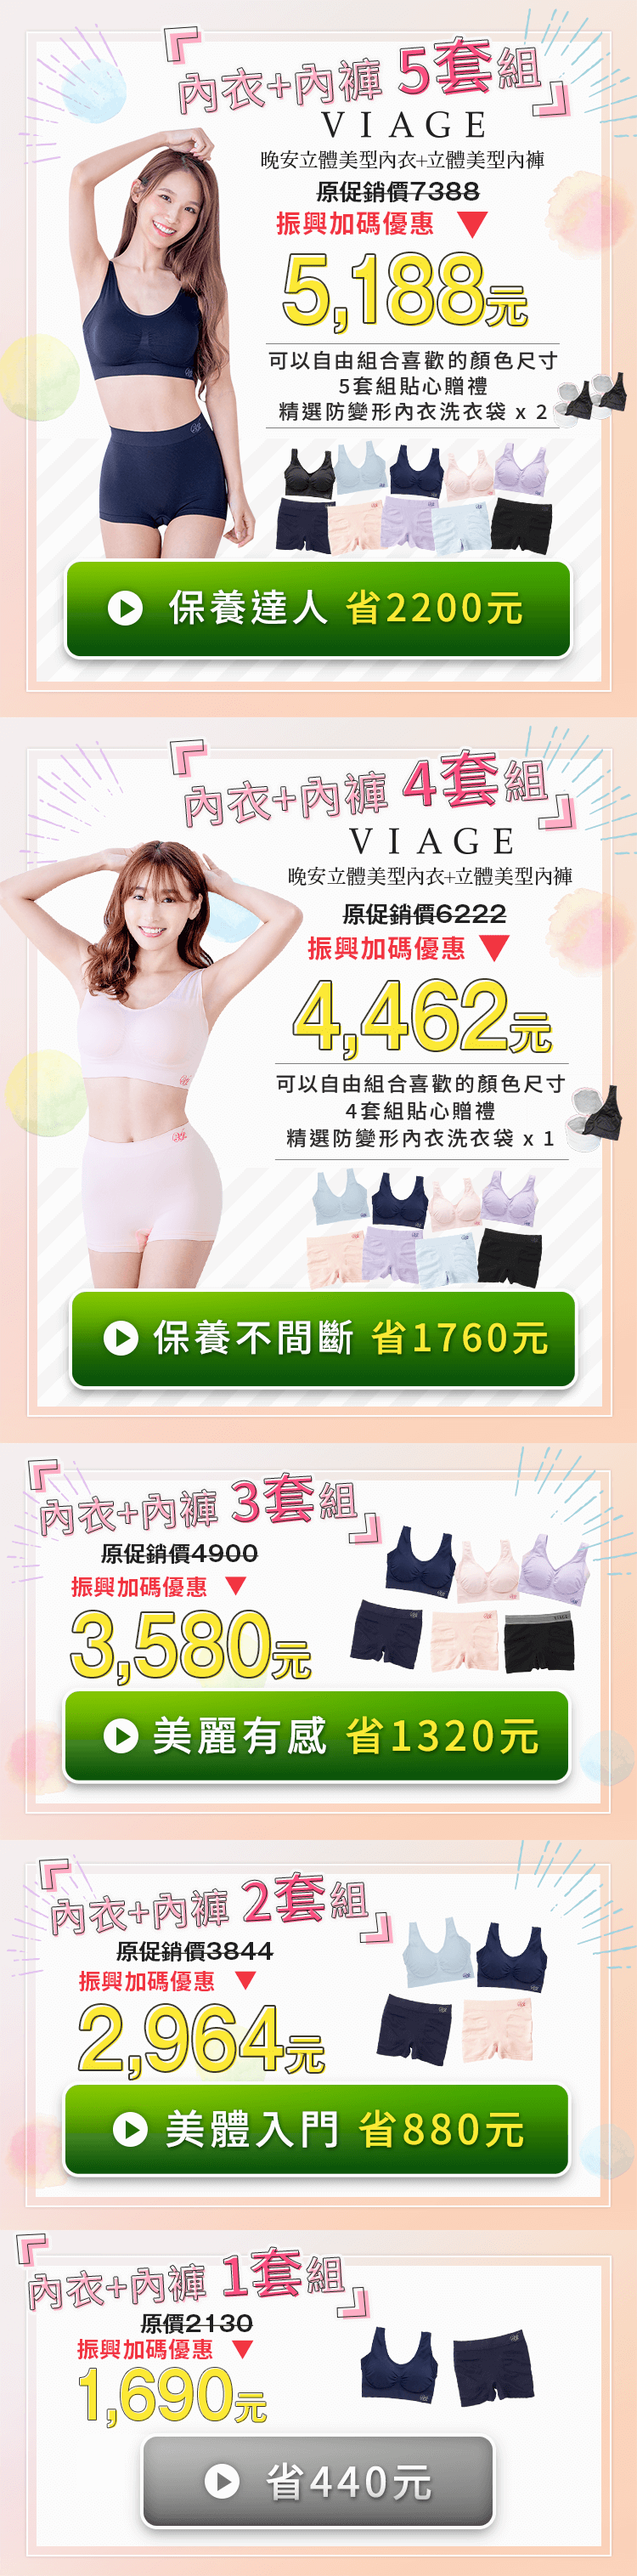
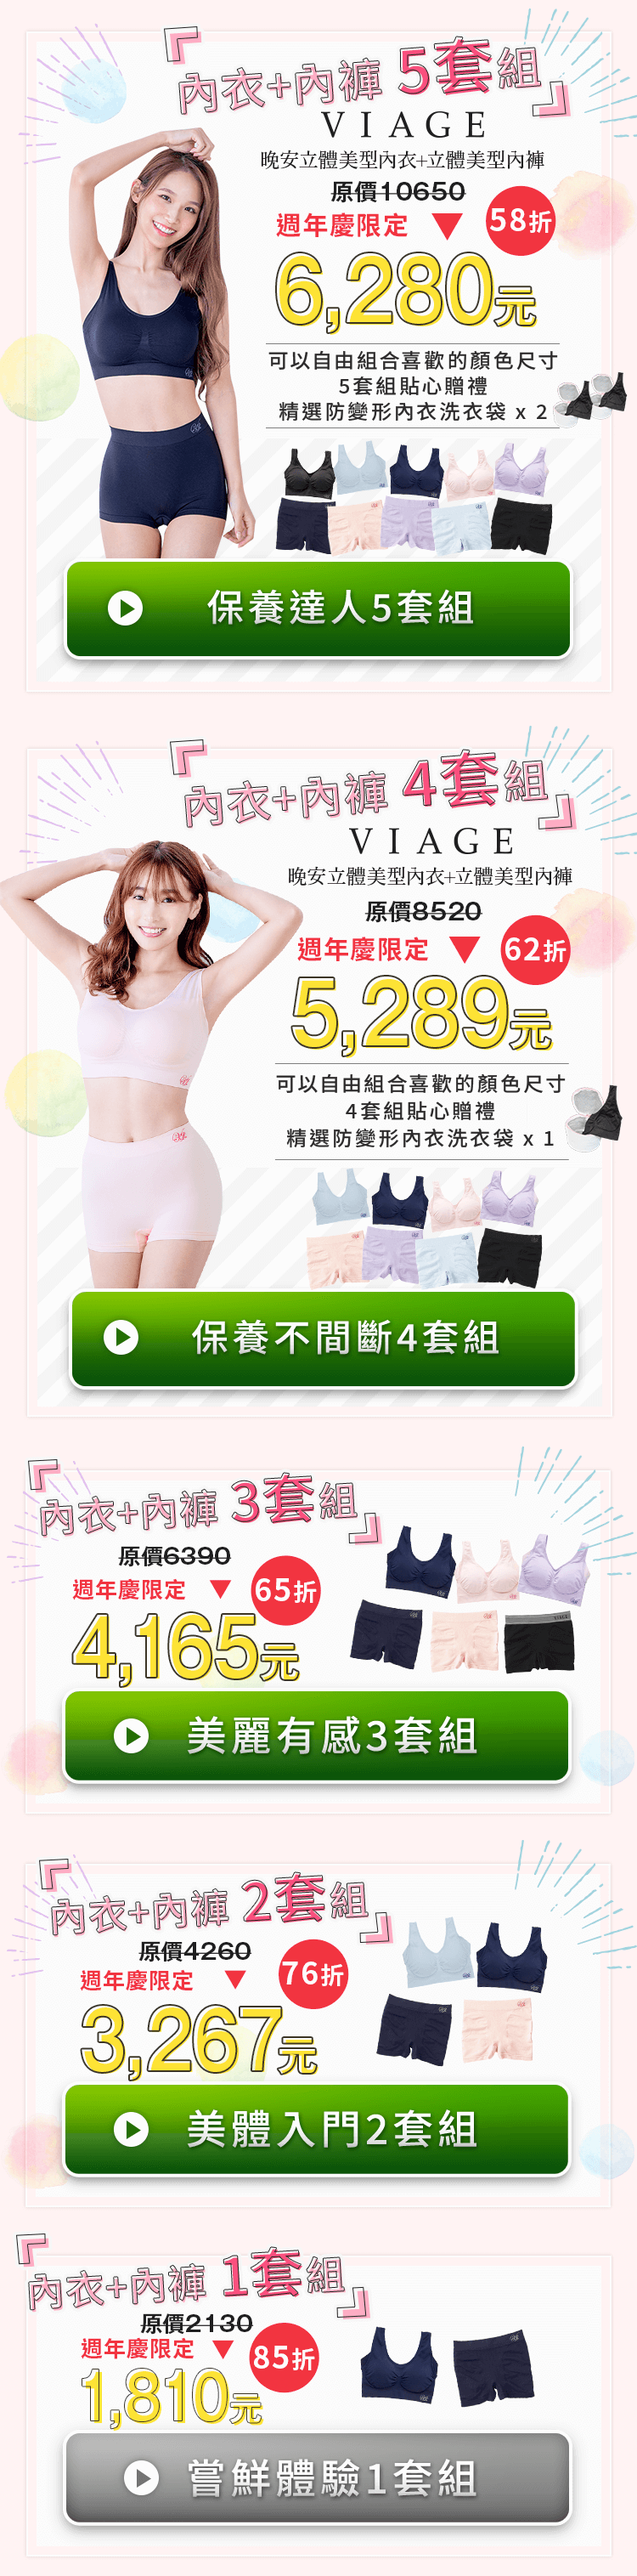
20211004_title & offer update

Changed region(s): [[0.0, 0.0, 1.0, 1.0], [0.46, 0.3411, 0.8893, 0.4342], [0.4293, 0.062, 0.8893, 0.1551]]

diff --git a/index.html b/index.html
@@ -2,7 +2,7 @@
 <html>
 
 <head>
-    <title>Viage週年慶低至59折！｜整套保養一次到位👙限時即刻使用</title>
+    <title>Viage週年慶低至58折！｜整套保養一次到位👙限時即刻使用</title>
     <meta name="Description" content="老顧客優惠輕鬆維持美胸保養！日本夜間育乳術，告別外擴、下垂，立體有感好胸型！白天穿鋼圈內衣，運動時穿運動內衣，睡覺時怎麼能放任胸部走山7~8小時？">
     <meta name="keywords" content="viage,viage內衣,晚安內衣,夜晚美胸,Viage晚安立體美型內衣">
     <!-- FB-->
